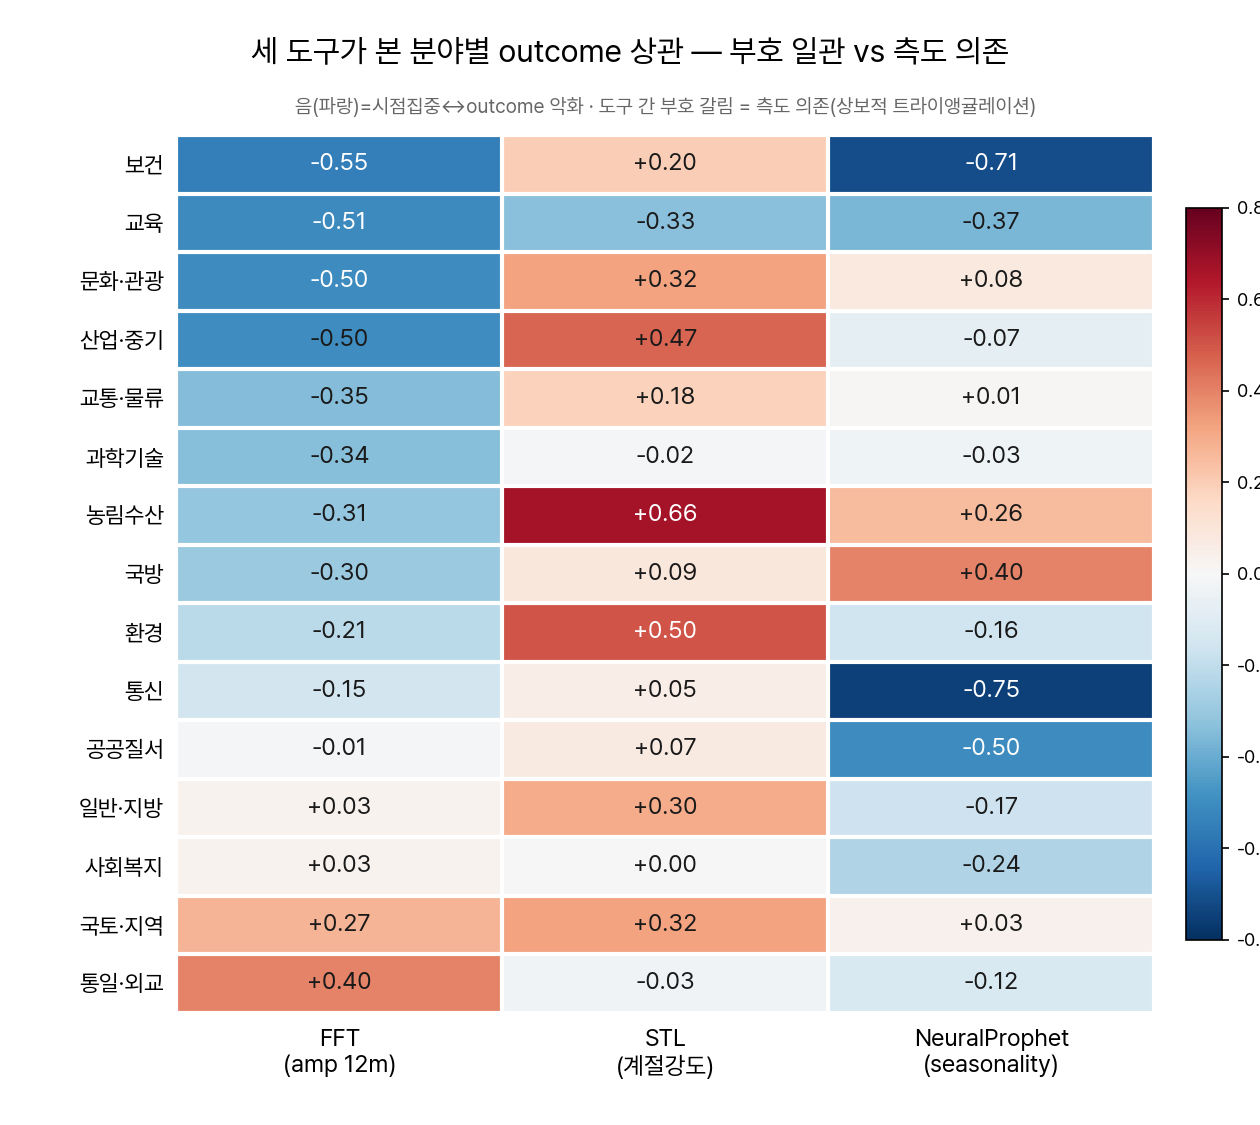
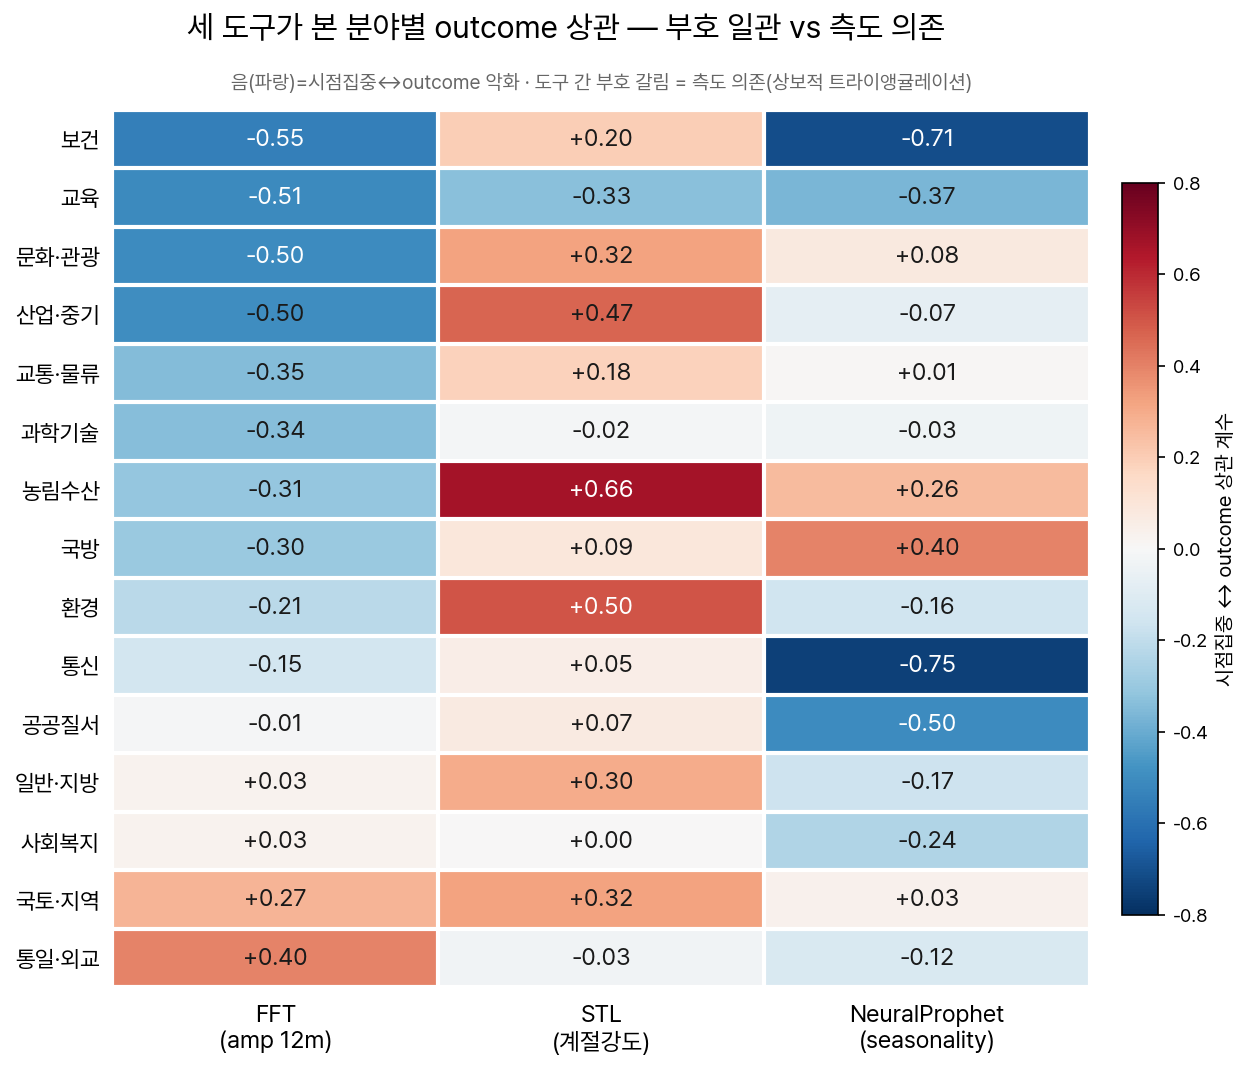
차트 텍스트 직관화 1차 — h8_panel 영문 변수명→한글, h30 컬러바 잘림 수정
- h8_panel: A0_personnel/A1_direct_invest/A2_sub0·1/A3_normal → 인건비형·자산취득형·출연금형①②·정상사업
- h30_triangulation: savefig bbox_inches='tight' 추가 → 컬러바 수치(0.8~−0.8) 가장자리 잘림 해소

diff --git a/scripts/figures/redo_fig06_h8panel.py b/scripts/figures/redo_fig06_h8panel.py
@@ -27,11 +27,11 @@ dr2_arch = float(
 
 # 원형별 β (source script 실행 결과 — paper/figures/h8_panel.png 박스에 있던 값)
 beta_labels = [
-    'A0_personnel: β=3.72',
-    'A1_direct_invest: β=−3.74',
-    'A2_sub0: β=0.94',
-    'A2_sub1: β=−7.29',
-    'A3_normal: β=2.99',
+    '인건비형: β=3.72',
+    '자산취득형: β=−3.74',
+    '출연금형①: β=0.94',
+    '출연금형②: β=−7.29',
+    '정상사업: β=2.99',
 ]
 
 fig, ax = plt.subplots(figsize=(7.3, 4.4))

diff --git a/scripts/slides/build_slide30_triangulation.py b/scripts/slides/build_slide30_triangulation.py
@@ -97,7 +97,7 @@ def main():
             transform=ax.transAxes, ha='center', fontsize=9.5, color='#666')
 
     OUT_PATH.parent.mkdir(parents=True, exist_ok=True)
-    plt.savefig(OUT_PATH, dpi=150, facecolor='white')
+    plt.savefig(OUT_PATH, dpi=150, facecolor='white', bbox_inches='tight')
     plt.close()
 
     from PIL import Image
